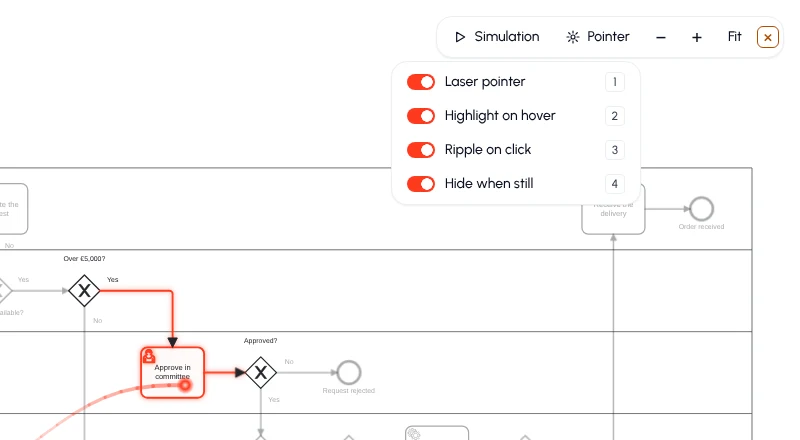
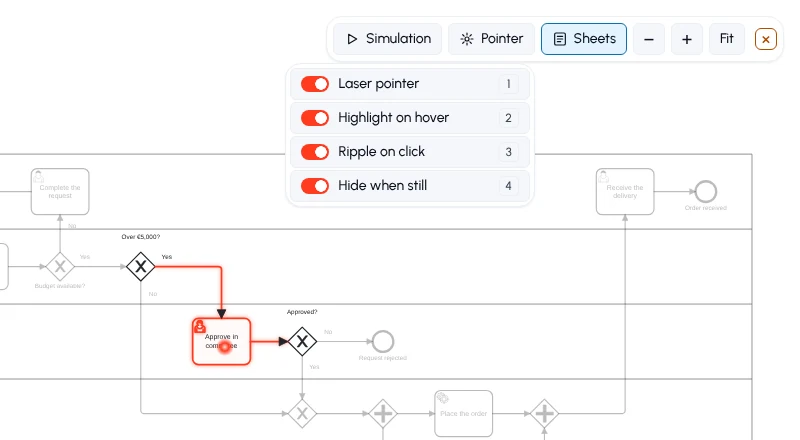
Make toolbar buttons quieter and keep the presentation bar light, retake their screenshots and GIFs
- Presentation bar: each item reads as a button; the bar fades to 55% at rest and
  comes back on hover or keyboard focus; it stays light in the dark theme, like the canvas.
- Main toolbar and co-pilot header: lighter button outline, no shadow.
- File name field: focus outline drawn against the field.
- Help screenshots and presentation GIFs retaken in FR and EN.

diff --git a/aide.html b/aide.html
@@ -819,7 +819,7 @@ Pour finir : vérifie le diagramme, corrige ce qui échoue et résume le process
         <h2>Activer le mode Expert<span class="ico" data-icon="expert" aria-hidden="true"></span></h2>
         <p>Ces fonctions servent à éprouver un modèle et à en rendre compte : rejouer le processus, mesurer la répartition des instances, en tirer un rapport, et relier les décisions du processus à des tables DMN.</p>
         <p>Le bouton <span class="uib"><span class="ico" data-icon="expert" aria-hidden="true"></span>Expert</span> de la barre d'outils ouvre un menu, qui propose les commandes des <a href="#modules">modules allumés</a> : <span class="uib"><span class="ico" data-icon="play" aria-hidden="true"></span>Simulation</span>, <span class="uib"><span class="ico" data-icon="pdf" aria-hidden="true"></span>Rapport de processus (PDF)</span>, <span class="uib"><span class="ico" data-icon="code" aria-hidden="true"></span>Rapport de processus (Markdown)</span>, <span class="uib"><span class="ico" data-icon="word" aria-hidden="true"></span>Rapport de processus (Word)</span>, <a href="#probabilites">Proposer les probabilités</a>, <a href="#rapport-processus">Analyse du Co-pilote</a> et <a href="#potentiel-ia">Potentiel d'IA par activité</a>, ces trois dernières grisées tant qu'aucun modèle n'est choisi pour le co-pilote : une petite icône d'aide le rappelle au survol. Choisir une entrée active le mode expert : le bouton passe en bleu, et le champ Probabilité (%) apparaît dans le panneau Processus. Le mode reste actif jusqu'à <span class="uib"><span class="ico" data-icon="close" aria-hidden="true"></span>Quitter le mode Expert</span>, en bas du même menu, et le navigateur s'en souvient. Cette entrée n'apparaît pas pendant une simulation. Hors de ce mode, l'éditeur n'affiche aucun de ces outils. Les <a href="#controles-ia">contrôles du co-pilote</a> et les outils MCP de dessin restent disponibles dans les deux cas.</p>
-        <figure><img src="/src/help/img/fr-menu-expert.webp" width="586" height="186" alt="Le bouton Expert en bleu et son menu ouvert : Arrêter la simulation, Rapport de processus en PDF ou en Markdown." loading="lazy" /><figcaption>Le menu Expert, mode actif et simulation en cours.</figcaption></figure>
+        <figure><img src="/src/help/img/fr-menu-expert.webp" width="588" height="204" alt="Le bouton Expert en bleu et son menu ouvert : Arrêter la simulation, Rapport de processus en PDF, en Markdown ou en Word." loading="lazy" /><figcaption>Le menu Expert, mode actif et simulation en cours.</figcaption></figure>
         <h3 id="modules">Choisir les modules<span class="ico" data-icon="modules" aria-hidden="true"></span></h3>
         <p><span class="uib"><span class="ico" data-icon="modules" aria-hidden="true"></span>Choisir les modules…</span>, en bas du menu, ouvre une fenêtre avec un interrupteur par fonction : <span class="ui">Simulation de jetons</span>, <span class="ui">Carte de chaleur</span>, <span class="ui">Rapport de processus</span>, <span class="ui">Potentiel d'IA</span>, <span class="ui">Risques et conformité</span>, <span class="ui">Export pour Camunda</span> et <span class="ui">Tables de décision (DMN)</span>. N'allumez que ce dont vous vous servez : le menu Expert et le panneau Processus ne montrent que les commandes des modules allumés. La carte de chaleur demande la simulation. Par défaut, la simulation, la carte de chaleur, le rapport, le potentiel d'IA et les risques sont allumés, l'export pour Camunda et les tables de décision éteints. Le navigateur retient vos choix.</p>
         <figure><img src="/src/help/img/fr-modules-experts.webp" width="1040" height="1716" alt="La fenêtre Modules experts : Simulation de jetons, Carte de chaleur, Rapport de processus, Potentiel d'IA, Risques et conformité, Export pour Camunda et Tables de décision (DMN), chacun avec son interrupteur, sa ligne d'explication et son lien vers l'aide." loading="lazy" /><figcaption>La fenêtre Modules experts : ici, l'export pour Camunda et les tables de décision sont éteints.</figcaption></figure>
@@ -1059,7 +1059,7 @@ Pour finir : vérifie le diagramme, corrige ce qui échoue et résume le process
           <li><strong>iPhone et iPad</strong> : bouton <strong>Partager</strong>, <strong>Sur l'écran d'accueil</strong>.</li>
           <li><strong>Firefox</strong> sur ordinateur ne prend pas en charge l'installation des PWA.</li>
         </ul>
-        <figure><img src="/src/help/img/fr-installer.webp" width="386" height="54" alt="Bout droit de la barre d'outils : le bouton Installer, avant Aide, langue, thème et panneau." loading="lazy" /><figcaption>Le bouton Installer, dans Chrome et Edge. Il disparaît une fois la PWA installée.</figcaption></figure>
+        <figure><img src="/src/help/img/fr-installer.webp" width="321" height="55" alt="Bout droit de la barre d'outils : le bouton Installer, avant Aide, langue, thème et panneau." loading="lazy" /><figcaption>Le bouton Installer, dans Chrome et Edge. Il disparaît une fois la PWA installée.</figcaption></figure>
         <!-- online -->
         <h3 id="hors-ligne">Hors connexion (service worker)</h3>
         <p>Après une première visite, l'éditeur, cette aide et la page vitrine s'ouvrent sans connexion, installés ou non : un service worker met en cache (Cache API) les fichiers du site. Les GIF de l'aide sont mis en cache une fois affichés. Le Co-pilote IA a besoin du réseau pour joindre l'API de son fournisseur : hors connexion, il le signale.</p>

diff --git a/help.html b/help.html
@@ -818,7 +818,7 @@ To finish: check the diagram, fix what fails and sum up the process in five line
         <h2>Turn on Expert mode<span class="ico" data-icon="expert" aria-hidden="true"></span></h2>
         <p>These features are for testing a model and reporting on it: replaying the process, measuring how instances spread, producing a report, and linking the decisions of the process to DMN tables.</p>
         <p>The <span class="uib"><span class="ico" data-icon="expert" aria-hidden="true"></span>Expert</span> button of the toolbar opens a menu, with the commands of the <a href="#modules">modules that are on</a>: <span class="uib"><span class="ico" data-icon="play" aria-hidden="true"></span>Simulation</span>, <span class="uib"><span class="ico" data-icon="pdf" aria-hidden="true"></span>Process report (PDF)</span>, <span class="uib"><span class="ico" data-icon="code" aria-hidden="true"></span>Process report (Markdown)</span>, <span class="uib"><span class="ico" data-icon="word" aria-hidden="true"></span>Process report (Word)</span>, <a href="#probabilities">Propose probabilities</a>, <a href="#process-report">Co-pilot analysis</a> and <a href="#ai-potential">AI potential by activity</a>, the last three greyed out until a model is chosen for the co-pilot: a small help icon says so on hover. Choosing an entry turns expert mode on: the button turns blue, and the Probability (%) field appears in the Process panel. The mode stays on until <span class="uib"><span class="ico" data-icon="close" aria-hidden="true"></span>Leave expert mode</span>, at the bottom of the same menu, and the browser remembers it. This entry is hidden while a simulation runs. Outside this mode, the editor shows none of these tools. The <a href="#ai-checks">co-pilot checks</a> and the MCP drawing tools are available either way.</p>
-        <figure><img src="/src/help/img/en-menu-expert.webp" width="600" height="186" alt="The blue Expert button and its open menu: Stop simulation, Process report as PDF or Markdown." loading="lazy" /><figcaption>The Expert menu, with the mode on and a simulation running.</figcaption></figure>
+        <figure><img src="/src/help/img/en-menu-expert.webp" width="600" height="204" alt="The blue Expert button and its open menu: Stop simulation, Process report as PDF, Markdown or Word." loading="lazy" /><figcaption>The Expert menu, with the mode on and a simulation running.</figcaption></figure>
         <h3 id="modules">Choose modules<span class="ico" data-icon="modules" aria-hidden="true"></span></h3>
         <p><span class="uib"><span class="ico" data-icon="modules" aria-hidden="true"></span>Choose modules…</span>, at the bottom of the menu, opens a window with one switch per function: <span class="ui">Token simulation</span>, <span class="ui">Heatmap</span>, <span class="ui">Process report</span>, <span class="ui">AI potential</span>, <span class="ui">Risks and compliance</span>, <span class="ui">Camunda export</span> and <span class="ui">Decision tables (DMN)</span>. Turn on only what you use: the Expert menu and the Process panel only show the commands of the modules that are on. The heatmap needs the simulation. By default, the simulation, the heatmap, the report, the AI potential and the risks are on, and the Camunda export and decision tables are off. The browser remembers your choices.</p>
         <figure><img src="/src/help/img/en-modules-experts.webp" width="1040" height="1680" alt="The Expert modules window: Token simulation, Heatmap, Process report, AI potential, Risks and compliance, Camunda export and Decision tables (DMN), each with its switch, a line of explanation and a link to the help." loading="lazy" /><figcaption>The Expert modules window: here, the Camunda export and decision tables are off.</figcaption></figure>
@@ -1058,7 +1058,7 @@ To finish: check the diagram, fix what fails and sum up the process in five line
           <li><strong>iPhone and iPad</strong>: <strong>Share</strong> button, <strong>Add to Home Screen</strong>.</li>
           <li><strong>Firefox</strong> on a computer does not support installing PWAs.</li>
         </ul>
-        <figure><img src="/src/help/img/en-installer.webp" width="335" height="54" alt="Right end of the toolbar: the Install button, before Help, language, theme and panel." loading="lazy" /><figcaption>The Install button, in Chrome and Edge. It disappears once the PWA is installed.</figcaption></figure>
+        <figure><img src="/src/help/img/en-installer.webp" width="333" height="55" alt="Right end of the toolbar: the Install button, before Help, language, theme and panel." loading="lazy" /><figcaption>The Install button, in Chrome and Edge. It disappears once the PWA is installed.</figcaption></figure>
         <!-- online -->
         <h3 id="offline">Offline (service worker)</h3>
         <p>After a first visit, the editor, this guide and the showcase page open without a connection, installed or not: a service worker caches the site's files (Cache API). The GIFs of this guide are cached once displayed. The AI co-pilot needs a connection to reach its provider's API: offline, it says so.</p>

diff --git a/src/theme/leylines.css b/src/theme/leylines.css
@@ -92,7 +92,7 @@ a.btn { text-decoration: none; }
   cursor: text;
 }
 .file-name-field:hover { border-color: var(--ink-muted); }
-.file-name-field:focus-within { outline: 2px solid var(--focus-ring); outline-offset: 2px; border-color: var(--accent); }
+.file-name-field:focus-within { outline: 2px solid var(--focus-ring); outline-offset: 0; border-color: var(--accent); }
 .file-name-icon {
   width: 16px; height: 16px; flex-shrink: 0;
   background-color: currentColor;
@@ -921,9 +921,8 @@ body #chat-input { flex: 1; min-height: 72px; padding-right: 32px; overflow-y: h
 /* Boutons de la fenêtre : relevés comme ceux de la barre d'outils, pour qu'on
    voie qu'ils se cliquent. Supprimer garde la couleur de danger. */
 #library-dialog .btn:not(.primary) {
-  border-color: var(--line-strong);
+  border-color: var(--line);
   background: var(--surface-raised);
-  box-shadow: 0 1px 0 var(--line);
 }
 #library-dialog .btn:not(.primary):not(:disabled):hover { background: var(--surface-sunken); border-color: var(--ink-muted); }
 #library-dialog .btn:not(:disabled):active { box-shadow: none; transform: translateY(1px); }
@@ -1222,12 +1221,11 @@ body.panel-resizing iframe, body.panel-resizing #canvas { pointer-events: none; 
 }
 
 /* Boutons de la barre d'outils et de l'en-tête du co-pilote : un contour fin
-   et un fond légèrement relevé montrent qu'ils se cliquent, sans alourdir la barre. */
+   et estompé et un fond légèrement relevé montrent qu'ils se cliquent, sans alourdir la barre. */
 #toolbar > .btn:not(#btn-chat),
 #chat-panel header .btn {
-  border-color: var(--line-strong);
+  border-color: var(--line);
   background: var(--surface-raised);
-  box-shadow: 0 1px 0 var(--line);
 }
 #toolbar > .btn:not(#btn-chat):hover,
 #chat-panel header .btn:hover {
@@ -1235,7 +1233,7 @@ body.panel-resizing iframe, body.panel-resizing #canvas { pointer-events: none; 
   border-color: var(--ink-muted);
 }
 #toolbar > .btn:not(#btn-chat):active,
-#chat-panel header .btn:active { box-shadow: none; transform: translateY(1px); }
+#chat-panel header .btn:active { transform: translateY(1px); }
 #toolbar > .btn.active:not(#btn-chat) { background: var(--accent-soft); border-color: var(--accent); }
 #chat-panel header #chat-settings,
 #chat-panel header #chat-reset { color: var(--ink); }
@@ -1517,6 +1515,30 @@ body.presenting #canvas .djs-container { cursor: grab; }
 }
 #presentation-bar[hidden], #presentation-hint[hidden] { display: none; }
 #presentation-bar .btn.icon-only { font-size: 18px; }
+/* Chaque commande de la barre se lit comme un bouton : fond, contour, survol et état actif.
+   La croix garde son style orange (.pres-close). */
+#presentation-bar { gap: 6px; padding: 6px; align-items: center; }
+#presentation-bar .btn:not(.pres-close) {
+  border: 1px solid var(--line); background: var(--surface);
+}
+/* Discrète au repos : la barre s'estompe et revient en pleine opacité au survol ou au clavier. */
+#presentation-bar:not(:hover):not(:focus-within) { opacity: 0.55; }
+#presentation-bar .btn:not(.pres-close):hover { border-color: var(--accent); background: var(--surface-sunken); color: var(--ink); }
+#presentation-bar .btn.active:not(.pres-close):hover { background: var(--accent-soft); }
+#presentation-bar .btn:not(.pres-close):active { transform: translateY(1px); }
+#presentation-bar .btn.active:not(.pres-close) { border-color: var(--accent); background: var(--accent-soft); }
+#presentation-bar .pres-close { margin-left: 4px; }
+/* Le canevas reste blanc en présentation : la barre, son menu et la bulle d'aide restent
+   claires dans tous les thèmes. */
+#presentation-bar, #presentation-hint {
+  color-scheme: light;
+  --surface: #F5F7FA; --surface-raised: #FFFFFF; --surface-sunken: #ECEFF3;
+  --line: #ECEFF3; --line-strong: #7A869A; --ink: #0C1120; --ink-muted: #3D4656;
+  --accent: #0F6FAD; --on-accent: #FFFFFF; --accent-soft: #E3F4FD; --warm: #B04E08; --focus-ring: #0F6FAD;
+  --elevation-1: 0 1px 2px rgba(12, 17, 32, 0.08);
+  color: var(--ink);
+}
+@media (prefers-reduced-motion: reduce) { #presentation-bar .btn:active { transform: none; } }
 /* En haut, sous la barre : le bas du schéma garde la commande de vitesse de la simulation. */
 #presentation-hint {
   position: fixed; left: 50%; top: calc(var(--space-4) + 52px); transform: translateX(-50%); z-index: 20;
